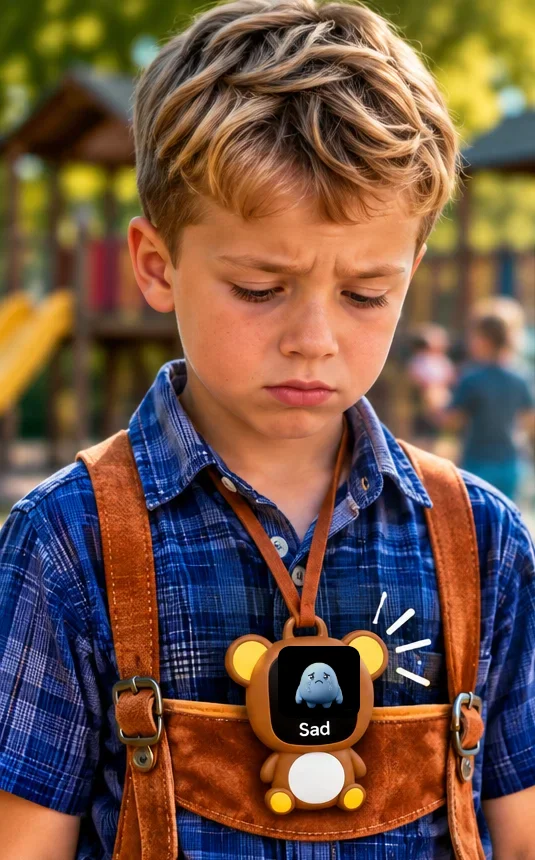
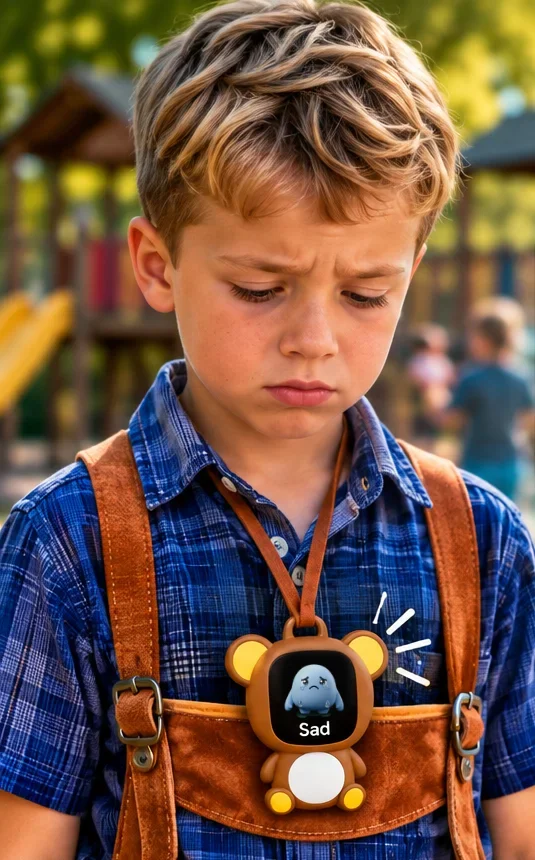
Website: kids photo uses the 3D Sad pal, blended into the screen

Changed region(s): [[0.5084, 0.7256, 0.6879, 0.8465]]

diff --git a/website/public/index.html b/website/public/index.html
@@ -108,7 +108,7 @@
         <p>Some kids can't find the words for a big feeling, or don't want to say it out loud. With MoodPals they don't have to. They tap their pal, swipe to how they feel and tap to share. Mom or Dad see it right away and can send back a loving emoji, so your child knows someone noticed and cares.</p>
         <ul><li>Three taps, no reading or typing needed</li><li>Friendly pals for Joyful, Anxious, Sad, Calm, Stressed and Tired</li><li>Parents answer with a heart or another loving emoji</li><li>Only the mood is shared, never health data</li></ul></div>
         <div class="kids-media">
-          <img class="kids-photo" src="/img/kids-photo.webp?v=2" width="535" height="860" loading="lazy" alt="A boy wearing his MoodPal shares that he feels sad">
+          <img class="kids-photo" src="/img/kids-photo.webp?v=3" width="535" height="860" loading="lazy" alt="A boy wearing his MoodPal shares that he feels sad">
           <div class="kid-note n1"><img src="/img/mascots/sadness.webp" alt=""><span><small>MoodPals · now</small><b>Tristan is feeling Sad</b></span></div>
           <div class="kid-note n2"><span class="heart" aria-hidden="true">❤</span><span><small>From Mom</small><b>Sent you some love</b></span></div>
         </div>
